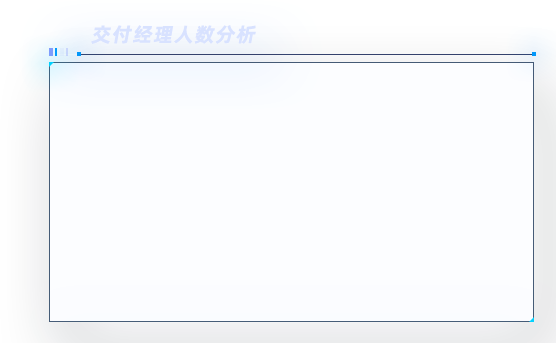
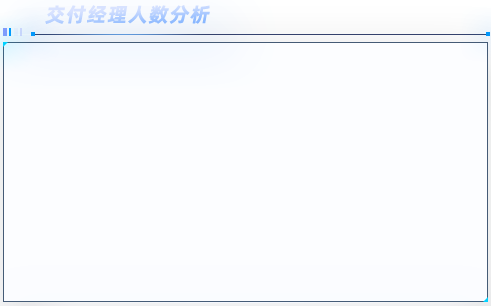
雷达图完成集成，接口调取

Changed region(s): [[0.0, 0.0, 1.0, 0.9412], [0.0, 0.9706, 1.0, 1.0]]

diff --git a/src/views/app/large-screen/components/radar-chart.vue b/src/views/app/large-screen/components/radar-chart.vue
@@ -1,0 +1,138 @@
+<template>
+  <div class="contain">
+    <div id="myChart" style="width: 100%; height: 25vh"></div>
+  </div>
+</template>
+  
+<script>
+import * as echarts from "echarts";
+//客户分布
+import { guestDepartment } from "@/api/largeScreen";
+export default {
+  name: "T",
+
+  components: {},
+  created() {
+    this.option.series[0].data[0].value = this.datas;
+  },
+  mounted() {
+    var myChartDdom = document.getElementById("myChart");
+    var myChart = echarts.init(myChartDdom);
+    this.option && myChart.setOption(this.option);
+    this.guestDepartmentfun();
+  },
+  data() {
+    return {
+      // 客户分布总数据
+      guestDepartmentData: [],
+      ii: -1,
+      datas: [], // [{name:"a",value:12320},{name:"b",value:12320},{name:"c",value:12320},]
+      option: {
+        color: ["#d05d26"], // 围起来的边框颜色
+        title: {
+          //   text: "雷达图名称",
+        },
+        // 标题
+        // legend: {
+        //   data: ['A']
+        // },
+        radar: {
+          // shape: 'circle',
+          indicator: [
+            { name: "紫金智信", max: 2, color: "#ffffff" },
+            { name: "华为", max: 4, color: "#ffffff" },
+            // { name: "飞创", max: 9, color: "#ffffff" },
+            // { name: "闪联", max: 3, color: "#ffffff" },
+            // { name: "金发", max: 52, color: "#ffffff" },
+            // { name: "某某", max: 25, color: "#ffffff" },
+          ],
+
+          axisLine: {
+            lineStyle: {
+              color: "#b06f13", // 分割线颜色
+            },
+          },
+          splitArea: {
+            show: true,
+            areaStyle: {
+              color: "rgba(0,0,0,0)", // 整个雷达图图表背景的颜色
+            },
+          },
+          splitLine: {
+            show: true,
+            lineStyle: {
+              width: 1,
+              color: "#83591d", // 设置网格的颜色
+            },
+          },
+        },
+        series: [
+          {
+            name: "Budget vs spending",
+            type: "radar",
+            data: [
+              {
+                value: [],
+                name: "A",
+                label: {
+                  normal: {
+                    show: true,
+                    formatter: function (params) {
+                      return params.value;
+                    },
+                  },
+                },
+                areaStyle: {
+                  // 区域颜色
+                  color: "#d19336",
+                },
+              },
+            ],
+          },
+        ],
+      },
+    };
+  },
+
+  methods: {
+    // 客户分布
+    guestDepartmentfun() {
+      let clientdata = {};
+      this.datas = [];
+      guestDepartment(clientdata).then((res) => {
+        this.guestDepartmentData = res.data;
+        console.log(this.guestDepartmentData, "-----客户分布");
+        this.option.series[0].data[0].value = [];
+        this.option.radar.indicator = [];
+        console.log(this.option.radar.indicator, "-------22222222");
+        this.guestDepartmentData.forEach((item) => {
+          this.option.radar.indicator.push({
+            name: item.customerName,
+            max: 2,
+            color: "#ffffff",
+          });
+          this.option.series[0].data[0].value.push(item.employeeNum);
+        });
+
+        var myChartDdom = document.getElementById("myChart");
+        var myChart = echarts.init(myChartDdom);
+        this.option && myChart.setOption(this.option);
+      });
+    },
+  },
+  watch: {},
+  beforeDestroy() {},
+};
+</script>
+  
+<style lang="less" scoped>
+.contain {
+  background-image: url("./images/uihomepage/客户分布-背景框.png");
+  background-size: contain;
+  background-repeat: no-repeat;
+  display: flex;
+  justify-content: center;
+  padding-top: 8%;
+}
+</style>
+  

diff --git a/src/views/app/large-screen/components/delivery-manager.vue b/src/views/app/large-screen/components/delivery-manager.vue
@@ -1,0 +1,78 @@
+<template>
+  <div class="contain">
+    <div style="width: 100%; height: 25vh" id="manage"></div>
+  </div>
+</template>
+  
+  <script>
+import * as echarts from "echarts";
+export default {
+  data() {
+    return {};
+  },
+  mounted() {
+    this.test();
+  },
+  methods: {
+    test() {
+      var chartDom = document.getElementById("manage");
+      var myChart = echarts.init(chartDom);
+      var option;
+
+      option = {
+        // title: {
+        //   text: "Referer of a Website",
+        //   subtext: "Fake Data",
+        //   left: "center",
+        // },
+        grid: {
+          left: "5%",
+          right: "5%",
+          bottom: "5%",
+          containLabel: true,
+        },
+        tooltip: {
+          trigger: "item",
+        },
+        // legend: {
+        //   orient: "vertical",
+        //   left: "left",
+        // },
+        series: [
+          {
+            // name: "Access From",
+            type: "pie",
+            radius: "50%",
+            data: [
+              { value: 1048, name: "项目经理A" },
+              { value: 735, name: "项目经理B" },
+              { value: 580, name: "项目经理C" },
+              { value: 484, name: "项目经理D" },
+              { value: 300, name: "项目经理E" },
+            ],
+            emphasis: {
+              itemStyle: {
+                shadowBlur: 10,
+                shadowOffsetX: 0,
+                shadowColor: "rgba(0, 0, 0, 0.5)",
+              },
+            },
+          },
+        ],
+      };
+      option && myChart.setOption(option);
+    },
+  },
+};
+</script>
+  
+<style lang="less" scoped>
+.contain {
+  background-image: url("./images/uihomepage/交付经理人数分析-背景框.png");
+  background-size: contain;
+  background-repeat: no-repeat;
+  display: flex;
+  justify-content: center;
+  padding-top: 10%;
+}
+</style>

diff --git a/src/views/app/large-screen/components/largeScreen.vue b/src/views/app/large-screen/components/largeScreen.vue
@@ -34,13 +34,14 @@
           <div class="grid-content bg-purple workCom" >
             <age-com class="ageCount" :aName="workName" :aValue="workValue"  v-if="bb" ></age-com>
           </div>
-          <!-- 右侧中 -->
-          <div class="grid-content bg-purple">
-            <span>客户分布</span>
+          <!-- 右侧中  客户分布-->
+          <div class="grid-content guestDepartment bg-purple">
+            <radarchart> </radarchart>
           </div>
           <!-- 右侧下 -->
-          <div class="grid-content bg-purple">
-            <span>交付经理人数分析</span>
+          <div class="grid-content bg-purple cakeBackground">
+            <!-- 3D饼图 -->
+            <delivery-manager></delivery-manager>
           </div>
         </el-col>
       </el-row>
@@ -51,12 +52,16 @@
 <script>
 import China from "./china-map.vue";
 import ageCom from "./ageCom.vue";
+import Radarchart from "./radar-chart.vue";
+import DeliveryManager from "./delivery-manager.vue";
 import { employeeAge, employeeSeniority } from "@/api/largeScreen";
 export default {
   name: "index",
   components: {
     China,
     ageCom,
+    Radarchart,
+    DeliveryManager,
   },
   data() {
     return {
@@ -188,7 +193,7 @@ html {
   .bg-purple {
     width: 100%;
     height: 28vh;
-    // background-color: rgba(224, 236, 211, 0.2);
+    // // background-color: rgba(224, 236, 211, 0.2);
     margin: 5px 0;
   }
   .bg-purple-light {

diff --git a/src/views/Home.vue b/src/views/Home.vue
@@ -84,6 +84,12 @@
                     <span>项目经理</span>
                     <!-- @click="centerDialogVisible = true" -->
                     <img
+                      style="cursor: pointer"
+                      src="../assets/img/uihomepage/home.png"
+                      alt=""
+                    />
+                    <img
+                      style="cursor: pointer"
                       @click="drawer = true"
                       src="../assets/img/uihomepage/菜单icon.png"
                       alt=""
@@ -386,6 +392,7 @@ export default {
 };
 </script>
 <style lang='less'>
+
 .el-scrollbar {
   // background-color: #1d2e5d !important;
   background-color: transparent !important;
@@ -493,8 +500,8 @@ export default {
 }
 // 表格单数行颜色
 .el-table tr {
-    // background-color: #e32525 !important;
-    // background-color: rgba(0, 0, 0, 0.7)!important;
+  // background-color: #e32525 !important;
+  // background-color: rgba(0, 0, 0, 0.7)!important;
 }
 // 表格头透明
 </style>

diff --git a/src/api/largeScreen/index.js b/src/api/largeScreen/index.js
@@ -1,8 +1,6 @@
 import { BaseURL } from "@/api/config";
 import Request from "@/util/axios/request";
 
-
-
 const employeeAge = (data) =>
   Request({
     method: "post",
@@ -16,7 +14,12 @@ const employeeSeniority = (data) =>
     url: BaseURL + "/app/reportForm/employeeSeniority",
     data,
   });
+// 客户分布
+const guestDepartment = (data) =>
+  Request({
+    method: "post",
+    url: BaseURL + "/app/reportForm/employeeCustomer",
+    data,
+  });
 
-
-
-export {employeeAge,employeeSeniority};
+export { employeeAge, employeeSeniority, guestDepartment };
